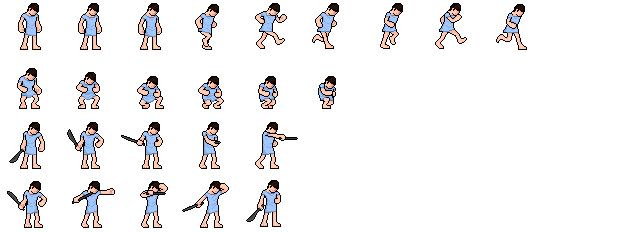
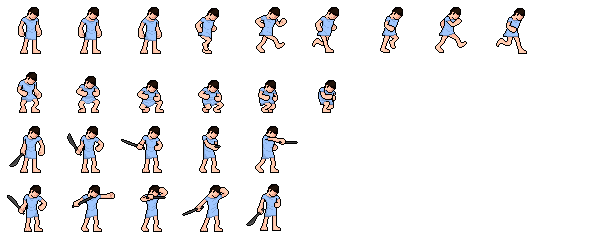
Fixed Dennis

diff --git a/Desktop_Build/lib/game/entities/player.js b/Desktop_Build/lib/game/entities/player.js
@@ -21,7 +21,7 @@ EntityPlayer = ig.Entity.extend({
 	checkAgainst: ig.Entity.TYPE.B,
 	collides: ig.Entity.COLLIDES.PASSIVE,
 	
-	animSheet: new ig.AnimationSheet( 'media/characters/characterDennis.png', 60, 47 ),
+	animSheet: new ig.AnimationSheet( 'media/characters/characterDennis.png', 60, 60 ),
 	
 	// These are our own properties. They are not defined in the base
 	// ig.Entity class. We just use them internally for the Player
